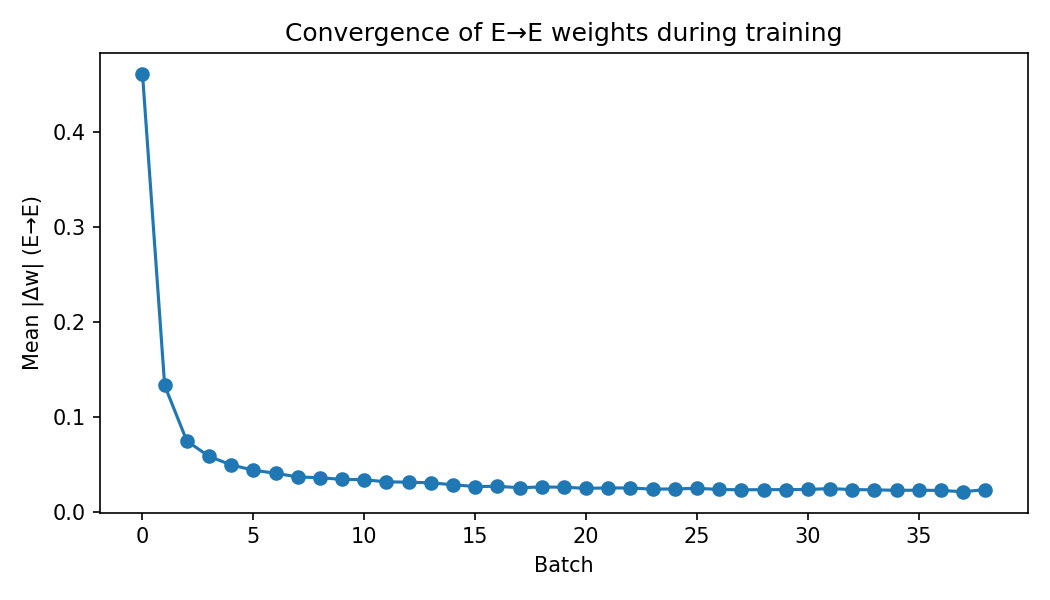
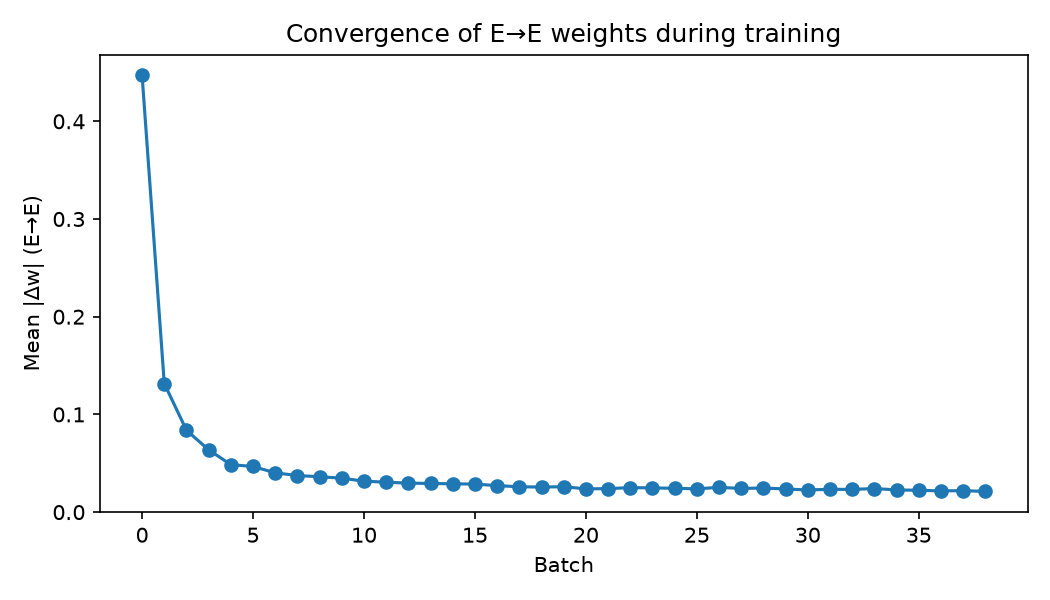
implement SNN training loop with per-trial weight snapshotting and utilities

diff --git a/main/brian_snn_training.py b/main/brian_snn_training.py
@@ -1,0 +1,279 @@
+from brian2 import *
+import numpy as np
+import matplotlib.pyplot as plt
+import os
+
+start_scope()
+
+# ============================================================
+# Parameters (Table 1 of the paper / params.py)
+# ============================================================
+num_neurons = 500
+f = 0.8
+ne = int(f * num_neurons)
+ni = num_neurons - ne
+
+tau = 20 * ms
+u_th = 20 * mV
+u_reset = 0 * mV
+t_ref = 0 * ms
+
+tau_minus = 10 * ms   # tau- : LTD low-pass filter
+tau_plus  = 7 * ms    # tau+ : LTP low-pass filter
+tau_x     = 15 * ms   # presynaptic trace decay
+
+vth_m = -20.0   # theta- (mV), stored as plain number
+vth_p = 7.5     # theta+ (mV), stored as plain number
+
+eps_ee = 0.3
+eps_ei = 0.3
+eps_ie = 1.0
+eps_ii = 1.0
+
+J = 0.5          # EPSP (mV)
+g = 8.0          # inhibition dominance ratio
+
+# plasticity learning rates -- straight from params.py, plain floats
+# (the whole ported model works in "divided-by-mV" numeric space, so these
+#  stay unitless multipliers, matching the existing codebase convention)
+A_ltd = 14.e-5
+A_ltp = 8.e-5
+w_min = 0.0        # lower bound, exc (numeric, representing mV)
+w_max = 2.0        # upper bound, exc
+w_max_inh = -5.0   # lower bound, inh (upper bound is 0)
+
+# feedforward / stimulus params
+s_b = 2 * kHz
+mu_exc = 0.2
+mu_inh = 0.02
+J_ffw = 1 * mV
+
+# ============================================================
+# Training schedule params (Fig 1 / Fig 6 protocol)
+# ============================================================
+block_no = 40          # number of batches
+stim_no = 20            # orientations per batch
+trial_time = 100 * ms  # presentation time per orientation
+
+# ============================================================
+# Data-saving protocol setup
+# ============================================================
+data_dir = 'data'
+os.makedirs(data_dir, exist_ok=True)
+
+# ============================================================
+# Neuron model
+# ============================================================
+eqs = '''
+du/dt = -u/tau                     : volt
+du_lp1/dt = (u - u_lp1)/tau_minus  : volt   # low-pass, LTD side
+du_lp2/dt = (u - u_lp2)/tau_plus   : volt   # low-pass, LTP side
+theta_star  : 1 (constant)
+theta_minus : volt (constant)
+theta_plus  : volt (constant)
+'''
+
+neurons = NeuronGroup(num_neurons, eqs, threshold='u>u_th', reset='u=u_reset',
+                       refractory=t_ref, method='euler')
+neurons.u = 0 * mV
+neurons.theta_minus = vth_m * mV
+neurons.theta_plus  = vth_p * mV
+
+exc = neurons[:ne]
+inh = neurons[ne:]
+
+# preferred orientations used for the feedforward tuning (theta_star)
+exc.theta_star = np.random.uniform(0, np.pi, ne)
+inh.theta_star = np.random.uniform(0, np.pi, ni)
+
+J_exc = J * mV
+J_inh = -g * J_exc
+
+# ============================================================
+# Plastic synapses
+# LTP is now folded directly into w (clock-driven, continuous).
+# LTD still happens at each presynaptic spike (event-driven), as in the paper.
+# ============================================================
+exc_plastic_model = '''
+dx_bar/dt = -x_bar/tau_x : 1 (clock-driven)
+dw/dt = A_ltp * x_bar * clip(u_post - theta_plus_post, 0*mV, 1e9*mV) * clip(u_lp2_post - theta_minus_post, 0*mV, 1e9*mV) / mV**2 / ms * mV : volt (clock-driven)
+'''
+
+exc_on_pre = '''
+u_post += w
+x_bar += 1
+w = clip(w/mV - A_ltd * clip(u_lp1_post/mV - theta_minus_post/mV, 0, 1e9), w_min, w_max) * mV
+'''
+
+S_EE = Synapses(exc, exc, model=exc_plastic_model, on_pre=exc_on_pre, method='euler')
+S_EE.connect(condition='i!=j', p=eps_ee)
+S_EE.w = J_exc
+S_EE.x_bar = 0
+
+S_EI = Synapses(exc, inh, model=exc_plastic_model, on_pre=exc_on_pre, method='euler')
+S_EI.connect(p=eps_ei)
+S_EI.w = J_exc
+S_EI.x_bar = 0
+
+# I -> E: LTD only (matches the paper's simpler inhibitory rule)
+inh_plastic_model = 'w : volt'
+inh_on_pre = '''
+u_post += w
+w = clip(w/mV - A_ltd * clip(u_lp1_post/mV - theta_minus_post/mV, 0, 1e9), w_max_inh, 0) * mV
+'''
+
+S_IE = Synapses(inh, exc, model=inh_plastic_model, on_pre=inh_on_pre, method='euler')
+S_IE.connect(p=eps_ie)
+S_IE.w = J_inh
+
+# I -> I: never plastic
+S_II = Synapses(inh, inh, model='w : volt', on_pre='u_post += w')
+S_II.connect(condition='i!=j', p=eps_ii)
+S_II.w = J_inh
+
+# ============================================================
+# Build the training schedule (pure numpy -- no simulation yet)
+# ============================================================
+n_trials = block_no * stim_no  # 800
+
+schedule = np.concatenate([
+    np.random.permutation(np.linspace(0, np.pi, stim_no, endpoint=False))
+    for _ in range(block_no)
+])  # shape (800,) -- one orientation per 100 ms slot
+
+# per-neuron, per-trial feedforward rate (Eq. 2 of the paper)
+theta_star_exc = exc.theta_star[:]   # plain numbers, shape (ne,)
+theta_star_inh = inh.theta_star[:]
+
+rates_exc_trials = s_b * (1 + mu_exc * np.cos(2 * (schedule[:, None] - theta_star_exc[None, :])))
+rates_inh_trials = s_b * (1 + mu_inh * np.cos(2 * (schedule[:, None] - theta_star_inh[None, :])))
+# shapes: (800, ne) and (800, ni)
+
+rates_exc_t = TimedArray(rates_exc_trials, dt=trial_time)
+rates_inh_t = TimedArray(rates_inh_trials, dt=trial_time)
+
+ff_exc = PoissonGroup(ne, rates='rates_exc_t(t, i)')
+ff_inh = PoissonGroup(ni, rates='rates_inh_t(t, i)')
+
+ff_exc_syn = Synapses(ff_exc, exc, on_pre='u_post += J_ffw')
+ff_exc_syn.connect(j='i')
+
+ff_inh_syn = Synapses(ff_inh, inh, on_pre='u_post += J_ffw')
+ff_inh_syn.connect(j='i')
+
+# ============================================================
+# Data-saving protocol: static data, written once before the run
+# ============================================================
+# preferred orientations (theta_star) for every neuron -- these never
+# change during training, so they're saved exactly once.
+np.savez(os.path.join(data_dir, 'theta_star.npz'),
+         theta_star_exc=theta_star_exc,
+         theta_star_inh=theta_star_inh)
+
+# connectivity (pre-index i, post-index j) for every synapse group.
+# Brian2 keeps synapse ordering fixed once .connect() has been called,
+# so every weight vector saved below lines up 1-to-1, element for
+# element, with these (i, j) pairs. This is what lets a saved weight
+# vector be turned back into a proper weight matrix later.
+np.savez(os.path.join(data_dir, 'connectivity.npz'),
+         ee_i=np.array(S_EE.i[:]), ee_j=np.array(S_EE.j[:]),
+         ei_i=np.array(S_EI.i[:]), ei_j=np.array(S_EI.j[:]),
+         ie_i=np.array(S_IE.i[:]), ie_j=np.array(S_IE.j[:]),
+         ii_i=np.array(S_II.i[:]), ii_j=np.array(S_II.j[:]),
+         ne=ne, ni=ni)
+
+# full orientation schedule -- schedule[k] is the theta shown on trial
+# k+1 (1-indexed), i.e. exactly the theta that produced
+# data/weights_trial{k+1:04d}.npz below.
+np.save(os.path.join(data_dir, 'schedule.npy'), schedule)
+
+# ============================================================
+# Weight snapshotting
+#  - save_trial_weights: fires after EVERY single theta presentation
+#    (every 100 ms trial), giving one file per learned orientation.
+#  - snapshot: keeps the old once-per-batch bookkeeping used for the
+#    convergence plot below.
+# ============================================================
+weight_snapshots = []           # E->E weights, one row per batch
+weight_snapshots_ei = []        # E->I
+weight_snapshots_ie = []        # I->E
+batch_duration = stim_no * trial_time
+
+
+@network_operation(dt=trial_time)
+def save_trial_weights():
+    # defaultclock.t is the time right after this trial's learning
+    # step has been applied, so this captures the "post-theta" weights.
+    trial_idx = int(round(defaultclock.t / trial_time))  # 1 .. n_trials
+    if trial_idx < 1 or trial_idx > n_trials:
+        return
+    theta = schedule[trial_idx - 1]
+    fname = os.path.join(data_dir, f'weights_trial{trial_idx:04d}.npz')
+    np.savez_compressed(
+        fname,
+        trial=trial_idx,
+        batch=(trial_idx - 1) // stim_no + 1,
+        trial_in_batch=(trial_idx - 1) % stim_no + 1,
+        theta=theta,
+        theta_deg=np.degrees(theta),
+        w_ee=np.array(S_EE.w[:] / mV, dtype=np.float32),
+        w_ei=np.array(S_EI.w[:] / mV, dtype=np.float32),
+        w_ie=np.array(S_IE.w[:] / mV, dtype=np.float32),
+    )
+
+
+@network_operation(dt=batch_duration)
+def snapshot():
+    weight_snapshots.append(np.array(S_EE.w[:] / mV))
+    weight_snapshots_ei.append(np.array(S_EI.w[:] / mV))
+    weight_snapshots_ie.append(np.array(S_IE.w[:] / mV))
+
+
+# initial weights, for the "before learning" comparison
+W_EE_initial = np.array(S_EE.w[:] / mV)
+
+# ============================================================
+# Run the whole thing in one call
+# ============================================================
+net = Network(collect())
+total_time = n_trials * trial_time  # 800 * 100ms = 80 s
+print(f"Running {block_no} batches x {stim_no} trials = {n_trials} trials "
+      f"({total_time}) in a single run() call...")
+print(f"Per-trial weight snapshots will be written to ./{data_dir}/ "
+      f"as weights_trial0001.npz ... weights_trial{n_trials:04d}.npz")
+net.run(total_time, report='text')
+
+# ============================================================
+# Convergence plot (Fig 6A equivalent)
+# ============================================================
+weight_snapshots = np.array(weight_snapshots)   # shape (block_no, n_synapses_EE)
+mean_change_per_batch = np.mean(np.abs(np.diff(weight_snapshots, axis=0)), axis=1)
+
+plt.figure(figsize=(7, 4))
+plt.plot(mean_change_per_batch, marker='o')
+plt.xlabel('Batch')
+plt.ylabel('Mean |Δw| (E→E)')
+plt.title('Convergence of E→E weights during training')
+plt.tight_layout()
+plt.savefig('weight_convergence.png', dpi=150)
+print("Saved weight_convergence.png")
+
+# quick sanity check: did anything actually potentiate?
+print(f"Initial E->E mean weight: {W_EE_initial.mean():.4f} mV")
+print(f"Final   E->E mean weight: {weight_snapshots[-1].mean():.4f} mV")
+print(f"Fraction of E->E weights at/near w_max: "
+      f"{np.mean(weight_snapshots[-1] > 0.9*w_max):.2%}")
+
+# ============================================================
+# Retrieving a saved snapshot later (e.g. in a brand-new Brian2
+# session/script). See load_weights.py for a ready-made helper --
+# in short:
+#
+#   from load_weights import load_trial
+#   snap = load_trial(37)                  # 37th stimulated theta
+#   snap['theta_deg']                      # orientation shown, in degrees
+#   snap['w_ee'], snap['ee_i'], snap['ee_j']   # weight vector + its (i, j) pairs
+#
+#   S_EE.connect(i=snap['ee_i'], j=snap['ee_j'])
+#   S_EE.w = snap['w_ee'] * mV
+# ============================================================

diff --git a/main/load_weights.py b/main/load_weights.py
@@ -1,0 +1,95 @@
+"""
+Helper for reloading the per-trial weight snapshots produced by
+brian_snn_training.py's data-saving protocol.
+
+Layout on disk (all under ./data/ by default):
+    data/theta_star.npz            -- theta_star_exc, theta_star_inh (static)
+    data/connectivity.npz          -- (i, j) pairs for EE/EI/IE/II (static)
+    data/schedule.npy              -- theta shown on every trial, 1-indexed
+    data/weights_trial0001.npz     -- weights right after trial 1's theta
+    data/weights_trial0002.npz
+    ...
+    data/weights_trial0800.npz
+
+Every weight vector (w_ee, w_ei, w_ie) is aligned element-for-element with
+the corresponding (i, j) index arrays in connectivity.npz, so you can drop
+them straight into a fresh Synapses object.
+"""
+
+import os
+import numpy as np
+
+
+def load_trial(trial_idx, data_dir='data'):
+    """
+    Load the weight snapshot taken right after the given trial number
+    (1-indexed, i.e. trial_idx=37 -> weights after the 37th theta shown
+    over the whole training run).
+
+    Returns a dict with:
+        theta, theta_deg   -- orientation shown on this trial
+        batch, trial_in_batch
+        w_ee, w_ei, w_ie   -- weight vectors (in mV, plain floats)
+        ee_i, ee_j, ei_i, ei_j, ie_i, ie_j, ii_i, ii_j -- connectivity
+        ne, ni
+    """
+    fname = os.path.join(data_dir, f'weights_trial{trial_idx:04d}.npz')
+    if not os.path.exists(fname):
+        raise FileNotFoundError(
+            f"No snapshot for trial {trial_idx} at {fname}. "
+            f"Check the trial number, or that training actually ran that far."
+        )
+    snap = dict(np.load(fname))
+    conn = dict(np.load(os.path.join(data_dir, 'connectivity.npz')))
+    snap.update(conn)
+    return snap
+
+
+def load_theta_star(data_dir='data'):
+    """Load the (static) preferred orientations for every neuron."""
+    d = np.load(os.path.join(data_dir, 'theta_star.npz'))
+    return d['theta_star_exc'], d['theta_star_inh']
+
+
+def load_schedule(data_dir='data'):
+    """Load the full training schedule (theta shown at every trial)."""
+    return np.load(os.path.join(data_dir, 'schedule.npy'))
+
+
+def restore_into_synapses(S_EE, S_EI, S_IE, trial_idx, data_dir='data'):
+    """
+    Convenience function: given fresh (unconnected) Synapses objects
+    S_EE, S_EI, S_IE built with the SAME model/on_pre code as in
+    brian_snn_training.py, connect them with the saved connectivity and
+    load in the weights from `trial_idx`. Requires brian2 to be
+    imported (for the `mV` unit) in the calling script.
+
+    Example
+    -------
+        from brian2 import mV
+        from load_weights import restore_into_synapses
+        restore_into_synapses(S_EE, S_EI, S_IE, trial_idx=37)
+    """
+    from brian2 import mV  # local import so this module works without brian2 too
+
+    snap = load_trial(trial_idx, data_dir=data_dir)
+
+    S_EE.connect(i=snap['ee_i'], j=snap['ee_j'])
+    S_EE.w = snap['w_ee'] * mV
+
+    S_EI.connect(i=snap['ei_i'], j=snap['ei_j'])
+    S_EI.w = snap['w_ei'] * mV
+
+    S_IE.connect(i=snap['ie_i'], j=snap['ie_j'])
+    S_IE.w = snap['w_ie'] * mV
+
+    return snap
+
+
+if __name__ == '__main__':
+    # quick smoke test / usage demo
+    snap = load_trial(37)
+    print(f"Trial 37: theta = {snap['theta_deg']:.2f} deg, "
+          f"batch {snap['batch']}, trial {snap['trial_in_batch']} in batch")
+    print(f"E->E weight vector shape: {snap['w_ee'].shape}")
+    print(f"Mean E->E weight at trial 37: {snap['w_ee'].mean():.4f} mV")